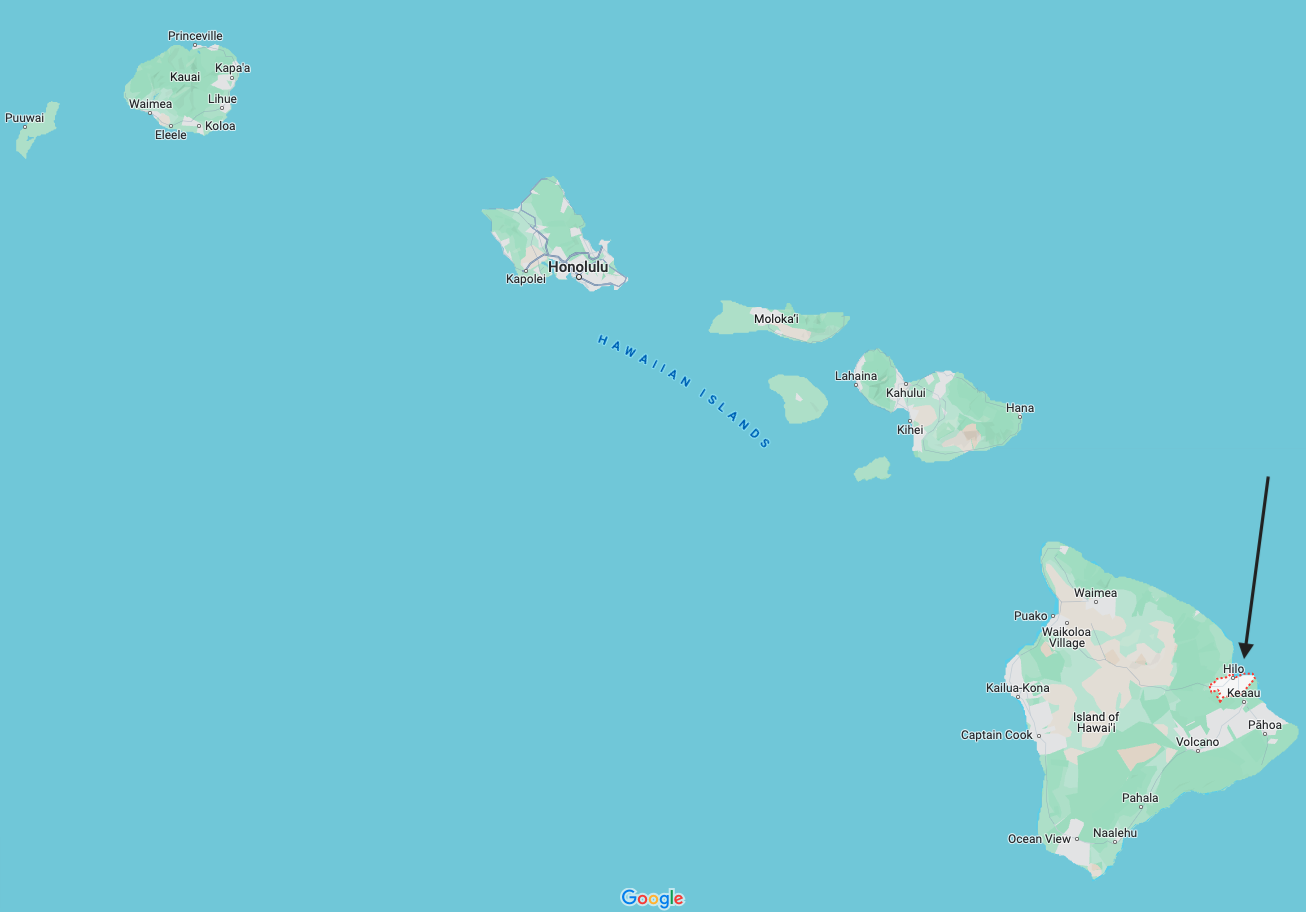
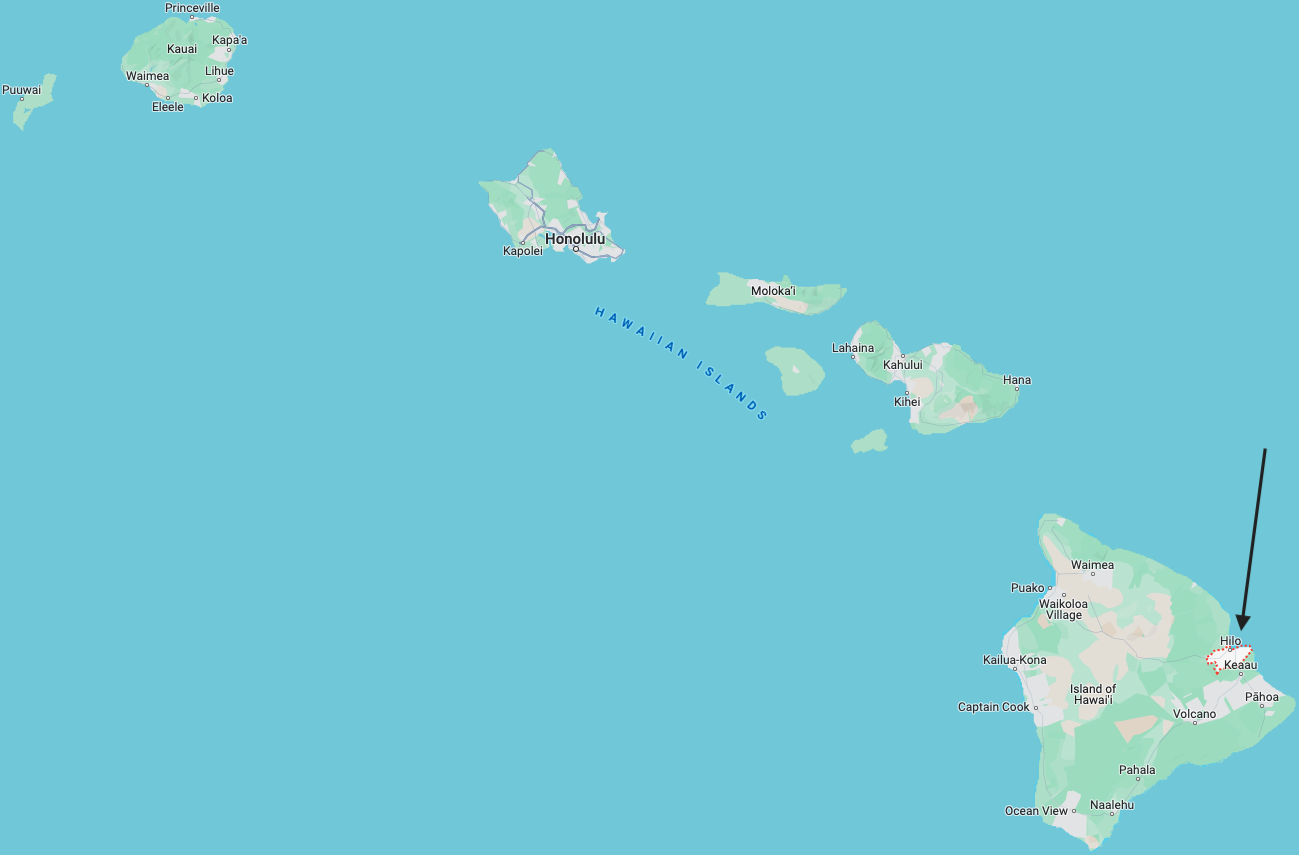
added maps, contact.html

diff --git a/contact.html b/contact.html
@@ -1,0 +1,47 @@
+<!DOCTYPE html>
+<html lang="en">
+    <head>
+        <meta charset="UTF-8">
+        <meta name="viewport" content="width=device-width, initial-scale=1.0">
+        <!-- required page title -->
+        <title>State of Hawaii | Contact Us</title>
+        <link rel="icon" type="image/x-icon" href="images/favicon.ico">
+        <!-- link to external stylesheet -->
+        <link rel="stylesheet" href="styles.css">
+    </head>
+    <body>
+
+        <header>
+            <h1 class="page-name" id="contact">Contact Us</h1>
+        </header>
+
+        <!-- Menu to navigate to any other page on the site -->
+        <nav>
+            <a href="index.html">Home</a>
+            <a href="honolulu.html">Honolulu</a>
+            <a href="lahaina.html">Lahaina</a>
+            <a href="hilo.html">Hilo</a>
+            <a href="contact.html">Contact Us</a>
+        </nav>
+
+        <div class="container">
+            <!-- Main Content of the page -->
+            <section>
+               
+            </section>
+            
+            <!-- Information related to the content -->
+            <aside>
+                <div>
+                    
+                </div>
+            </aside>
+        </div>
+
+        <footer>
+            <p>&copy; 2024 Ireri Petersen Hawaii D277</p>
+            <p>This is not an official Hawaii state website. Please visit <a href="https://portal.ehawaii.gov/">Hawaii.gov</a> for official news, services, and information.</p>
+        </footer>
+
+    </body>
+</html>

diff --git a/honolulu.html b/honolulu.html
@@ -22,7 +22,7 @@
             <a href="honolulu.html">Honolulu</a>
             <a href="lahaina.html">Lahaina</a>
             <a href="hilo.html">Hilo</a>
-            <a href="index.html">Contact Us</a>
+            <a href="contact.html">Contact Us</a>
         </nav>
 
         <div class="container">
@@ -85,7 +85,7 @@
                     </ul>
                 </div>
                 <div>
-                    <a href="images/aloha.jpg" target="_blank"><img src="images/aloha.jpg" alt="Honolulu on a map of Hawaii"></a>
+                    <a href="images/honolulu-map.png" target="_blank"><img src="images/honolulu-map.png" alt="Honolulu on a map of Hawaii"></a>
                     <p class="map">Click image to enlarge</p>
                 </div>
                 <div>

diff --git a/lahaina.html b/lahaina.html
@@ -22,7 +22,7 @@
             <a href="honolulu.html">Honolulu</a>
             <a href="lahaina.html">Lahaina</a>
             <a href="hilo.html">Hilo</a>
-            <a href="index.html">Contact Us</a>
+            <a href="contact.html">Contact Us</a>
         </nav>
 
         <div class="container">
@@ -88,7 +88,7 @@
                     </ul>
                 </div>
                 <div>
-                    <a href="images/aloha.jpg" target="_blank"><img src="images/aloha.jpg" alt="Lahaina on a map of Hawaii"></a>
+                    <a href="images/lahaina-map.png" target="_blank"><img src="images/lahaina-map.png" alt="Lahaina on a map of Hawaii"></a>
                     <p class="map">Click image to enlarge</p>
                 </div>
                 <div>

diff --git a/hilo.html b/hilo.html
@@ -22,7 +22,7 @@
             <a href="honolulu.html">Honolulu</a>
             <a href="lahaina.html">Lahaina</a>
             <a href="hilo.html">Hilo</a>
-            <a href="index.html">Contact Us</a>
+            <a href="contact.html">Contact Us</a>
         </nav>
 
         <div class="container">

diff --git a/index.html b/index.html
@@ -22,7 +22,7 @@
             <a href="honolulu.html">Honolulu</a>
             <a href="lahaina.html">Lahaina</a>
             <a href="hilo.html">Hilo</a>
-            <a href="index.html">Contact Us</a>
+            <a href="contact.html">Contact Us</a>
         </nav>
 
         <div class="container">

diff --git a/styles.css b/styles.css
@@ -34,6 +34,11 @@ header {
     margin: 0;
 }
 
+#contact {
+    position: relative;
+    top: 35px;
+}
+
 nav {
     background-color: #3ab795;
     margin: 0;
@@ -175,6 +180,7 @@ a:hover {
     color: #f96d4d;
 }
 
+/* class selector used at least 2 times */
 p.flag {
     text-align: right;
 }
